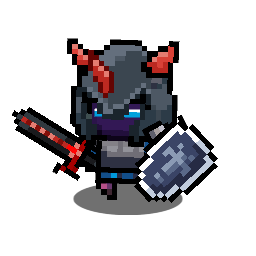
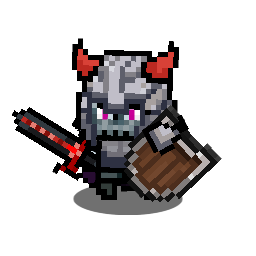
fix(assets): re-source champ_dark_knight from skelton_06 (matches SPUM pack art)
Jackson flagged the in-game Dark Horned Knight rendering looked
different from the same character in the SPUM Bundle Pack Basic
marketing art (which shows red horns + wooden shield + red sword).

Root cause: we were sourcing the bake from devil_06
(BasicPack/Devil/SPUM_20240911215640719.prefab), whose IDLE animation
ships with a grey metal shield + red sword. The matching prefab in
the asset pack is actually skelton_06 (BasicPack/Skelton/
SPUM_20240911215640266.prefab) — red horns, dark armour visor, red
jagged sword, brown wooden shield. The Skelton subfolder hosts the
asset pack's "undead knight" tier, not the cute-devil tier the
package name suggests.

Updated SetSourcePrefab["champ_dark_knight"] -> the skelton_06 path
and re-ran BakeShopSetsBatch. Diff stays minimal because the other
12 SetCatalog entries' source prefabs were unchanged; only the 6
champ_dark_knight pieces + the Sets/champ_dark_knight.png composite
changed.

Also extended BakeAllPreviews to cover Skelton + Legacy folders in
addition to Elf / Devil / Human, so a future "find the right prefab"
hunt has them dumped to /tmp/spum_previews/ alongside the others.

Changed region(s): [[0.25, 0.125, 0.875, 0.8125]]

diff --git a/Assets/_Game/Scripts/Editor/SPUMBaker.cs b/Assets/_Game/Scripts/Editor/SPUMBaker.cs
@@ -31,9 +31,11 @@ namespace Gamex.EditorTools
         {
             string outRoot = "/tmp/spum_previews";
             Directory.CreateDirectory(outRoot);
-            BakeFolder("Assets/SPUM/Resources/Addons/BasicPack/2_Prefab/Elf",   $"{outRoot}/elf",   keepEquip: true);
-            BakeFolder("Assets/SPUM/Resources/Addons/BasicPack/2_Prefab/Devil", $"{outRoot}/devil", keepEquip: true);
-            BakeFolder("Assets/SPUM/Resources/Addons/BasicPack/2_Prefab/Human", $"{outRoot}/human", keepEquip: true);
+            BakeFolder("Assets/SPUM/Resources/Addons/BasicPack/2_Prefab/Elf",     $"{outRoot}/elf",     keepEquip: true);
+            BakeFolder("Assets/SPUM/Resources/Addons/BasicPack/2_Prefab/Devil",   $"{outRoot}/devil",   keepEquip: true);
+            BakeFolder("Assets/SPUM/Resources/Addons/BasicPack/2_Prefab/Human",   $"{outRoot}/human",   keepEquip: true);
+            BakeFolder("Assets/SPUM/Resources/Addons/BasicPack/2_Prefab/Skelton", $"{outRoot}/skelton", keepEquip: true);
+            BakeFolder("Assets/SPUM/Resources/Addons/Legacy/2_Prefab",            $"{outRoot}/legacy",  keepEquip: true);
             Debug.Log($"[SPUMBaker] wrote previews to {outRoot}");
         }
 
@@ -172,7 +174,7 @@ namespace Gamex.EditorTools
         {
             { "elf_paladin",            "Assets/SPUM/Resources/Addons/BasicPack/2_Prefab/Elf/SPUM_20240911222346858.prefab" },     // elf_07
             // Phase 5b — 3 Elite ("最帅") sets
-            { "champ_dark_knight",      "Assets/SPUM/Resources/Addons/BasicPack/2_Prefab/Devil/SPUM_20240911215640719.prefab" },  // devil_06
+            { "champ_dark_knight",      "Assets/SPUM/Resources/Addons/BasicPack/2_Prefab/Skelton/SPUM_20240911215640266.prefab" },  // skelton_06 — red horns + dark armor + red sword + wooden shield (matches the SPUM Bundle Pack Basic preview's "dark horned knight")
             { "champ_skull_warrior",    "Assets/SPUM/Resources/Addons/BasicPack/2_Prefab/Human/SPUM_20240911215639662.prefab" },  // human_16
             { "champ_crimson_warrior",  "Assets/SPUM/Resources/Addons/BasicPack/2_Prefab/Human/SPUM_20240911215638389.prefab" },  // human_01
             // Phase 5b — 5 Veteran ("中等") sets
